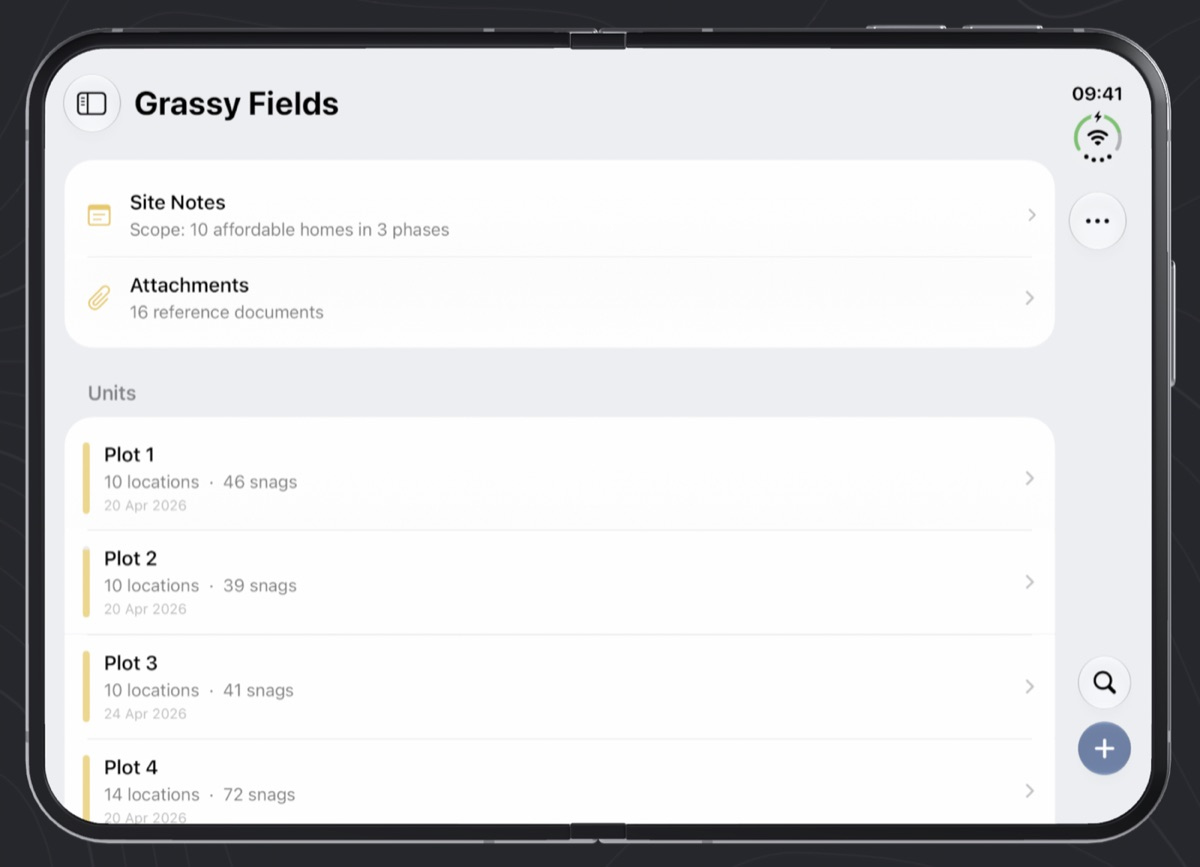
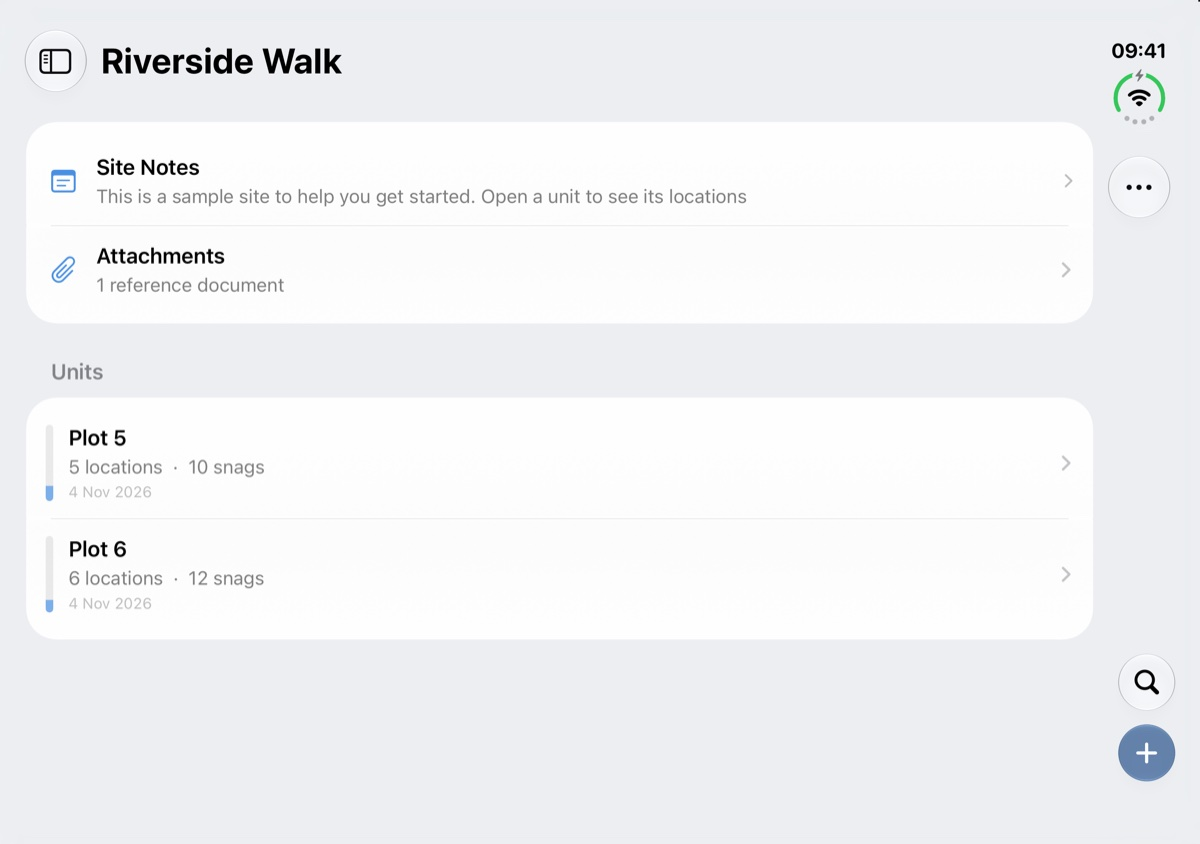
Replace the Duo App Store images with sample-site screenshots
Folded and unfolded views of the same screen side by side, plus a
drawing on the unfolded screen, each in a bezel.

Changed region(s): [[0.0, 0.0, 1.0, 1.0], [0.185, 0.7701, 0.2467, 0.8009]]

diff --git a/manual-ipad-duo.html b/manual-ipad-duo.html
@@ -86,17 +86,26 @@
       <li><strong>Fold or unfold at any time.</strong> Snaglite keeps your place, so the snag you're editing, any unsaved typing and an open photo editor all stay as they were.</li>
     </ul>
 
-    <figure class="shot plain duo">
-        <a href="images/duo-unfolding.jpg" target="_blank" rel="noopener noreferrer">
-          <img src="images/duo-unfolding.jpg" alt="iPhone Duo part-unfolded with sites on one side and units on the other">
+    <div class="duo-pair">
+      <figure class="shot plain duo-folded">
+        <a href="images/duo-folded.jpg" target="_blank" rel="noopener noreferrer">
+          <img src="images/duo-folded.jpg" alt="iPhone Duo folded, with Search, + and the menu in a strip down the side">
         </a>
-        <figcaption>Part-unfolded: sites and units side by side</figcaption>
-    </figure>
-    <figure class="shot plain duo">
+        <figcaption>Folded: the iPhone layout, with the side strip</figcaption>
+      </figure>
+      <figure class="shot plain ipad duo-open">
         <a href="images/duo-unfolded.jpg" target="_blank" rel="noopener noreferrer">
-          <img src="images/duo-unfolded.jpg" alt="iPhone Duo fully unfolded showing a site's units">
+          <img src="images/duo-unfolded.jpg" alt="iPhone Duo unfolded showing a site's units at full width">
         </a>
-        <figcaption>Fully unfolded</figcaption>
+        <figcaption>Unfolded: the same screen at full width</figcaption>
+      </figure>
+    </div>
+
+    <figure class="shot plain ipad">
+      <a href="images/duo-drawing.jpg" target="_blank" rel="noopener noreferrer">
+        <img src="images/duo-drawing.jpg" alt="Floor plan with numbered pins on an unfolded iPhone Duo">
+      </a>
+      <figcaption>Unfolded is ideal for drawings</figcaption>
     </figure>
 
     <div class="next-link">

diff --git a/manual.css b/manual.css
@@ -482,18 +482,51 @@ th {
     0 10px 28px rgba(0, 0, 0, 0.18);
 }
 
-/* iPhone Duo images come from the App Store set and already have their own frame. */
-.shot.duo {
+/* iPhone Duo: folded (outer screen) beside unfolded (inner screen). */
+.duo-pair {
+  display: flex;
+  align-items: flex-end;
+  justify-content: center;
+  gap: 24px;
   margin: 8px 0 28px;
 }
 
-.shot.duo img {
-  max-width: 760px;
-  border: 0;
-  border-radius: 16px;
+.duo-pair .shot {
+  margin: 0;
+}
+
+.duo-pair .duo-folded {
+  flex: 0 0 30%;
+}
+
+.duo-pair .duo-open {
+  flex: 0 1 62%;
+}
+
+.duo-pair .duo-folded img {
+  max-width: 100%;
+  border: 7px solid #1c1c1e;
+  border-radius: 26px;
+  background: #000;
+  box-shadow:
+    0 0 0 1.5px #48484a,
+    0 10px 28px rgba(0, 0, 0, 0.18);
+}
+
+.duo-pair .duo-open img {
+  max-width: 100%;
 }
 
 @media (max-width: 800px) {
+  .duo-pair {
+    gap: 12px;
+  }
+
+  .duo-pair .duo-folded img {
+    border-width: 4px;
+    border-radius: 14px;
+  }
+
   .shot.ipad img {
     border-width: 5px;
     border-radius: 14px;
